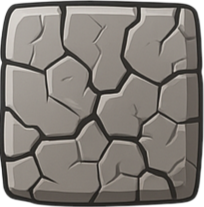
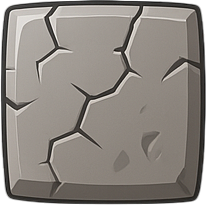
idkk

diff --git a/main.py b/main.py
@@ -46,9 +46,9 @@ play_rect = play_surface.get_rect(center=(WIDTH/2,HEIGHT/2))
 choose_theme_surface = pygame.image.load("./media/images/theme.png").convert_alpha()
 choose_theme_surface = pygame.transform.scale(choose_theme_surface, (WIDTH/8, HEIGHT/11))
 choose_theme_rect = choose_theme_surface.get_rect(center=(WIDTH/2, HEIGHT/1.65))
-mute_img = pygame.image.load("./media/images/sound_options/mute.png").convert_alpha()
+mute_img = pygame.image.load("./media/images/sound_options/unmute.png").convert_alpha()
 mute_img = pygame.transform.scale(mute_img, SOUND_SIZE)
-unmute_img = pygame.image.load("./media/images/sound_options/unmute.png").convert_alpha()
+unmute_img = pygame.image.load("./media/images/sound_options/mute.png").convert_alpha()
 unmute_img = pygame.transform.scale(unmute_img, SOUND_SIZE)
 sound_img = mute_img
 sound_rect = unmute_img.get_rect(center=(WIDTH*(1/25), HEIGHT/16))
@@ -86,17 +86,14 @@ for i in range(NUM_FRAMES):
     img = pygame.transform.scale(img, (BIRD_SIZE * 7, BIRD_SIZE * 7))
     EXPLOSION_FRAMES.append(img)
 BIRD_PACK = (BIRD_OG_IMAGES, OG_HELMET_IMAGE, EXPLOSION_FRAMES)
-BLOCK_IMAGES_1 = {}
-for block in BLOCK_OPTIONS:
-    image = pygame.image.load(f"./media/images/blocks/{block}_1.png").convert_alpha()
-    image = pygame.transform.scale(image, (BLOCK_SIZE, BLOCK_SIZE))
-    BLOCK_IMAGES_1[block] = image
-BLOCK_IMAGES_2 = {}
-for block in BLOCK_OPTIONS:
-    image = pygame.image.load(f"./media/images/blocks/{block}_2.png").convert_alpha()
-    image = pygame.transform.scale(image, (BLOCK_SIZE, BLOCK_SIZE))
-    BLOCK_IMAGES_2[block] = image
-BLOCK_PACK = (BLOCK_IMAGES_1, BLOCK_IMAGES_2)
+BLOCK_IMAGES = {}
+for i in range(1, 5):
+    BLOCK_IMAGES[i] = {}
+    for block in BLOCK_OPTIONS:
+        img = pygame.image.load(f"./media/images/blocks/{block}_{i}.png").convert_alpha()
+        img = pygame.transform.scale(img, (BLOCK_SIZE, BLOCK_SIZE))
+        BLOCK_IMAGES[i][block] = img
+BLOCK_PACK = (BLOCK_IMAGES[1], BLOCK_IMAGES[2], BLOCK_IMAGES[3], BLOCK_IMAGES[4])
 # Prediction image
 circle_image = pygame.image.load("./media/images/circle.png").convert_alpha()
 # Difficulty choosing

diff --git a/modules/variables.py b/modules/variables.py
@@ -3,25 +3,26 @@ import pygame # type: ignore
 BLOCK_HEALTH = {
     "wood": 100,
     "ice": 100,
-    "stone": 100
+    "stone": 100,
+    "iron" : 100
 }
 
 BIRD_DAMAGE = {
-    "red": {"wood": 60, "ice": 60, "stone": 60},
-    "chuck": {"wood": 70, "ice": 35, "stone": 35},
-    "blues": {"wood": 35, "ice": 70, "stone": 35},
-    "bomb": {"wood": 35, "ice": 35, "stone": 70}
-}  # To be tuned before submitting
+    "red": {"wood": 50, "ice": 50, "stone": 50, "iron": 0},
+    "chuck": {"wood": 60, "ice": 40, "stone": 40, "iron": 0},
+    "blues": {"wood": 40, "ice": 60, "stone": 40, "iron": 0},
+    "bomb": {"wood": 40, "ice": 40, "stone": 60, "iron": 0}
+}
 
 DIFFICULTY_SETTINGS = {
-    1: {"width": 2,  "height": 6,  "wind_max":  0},
-    2: {"width": 4,  "height": 6,  "wind_max":  3},
-    3: {"width": 6,  "height": 8,  "wind_max":  6},
-    4: {"width": 8,  "height":10,  "wind_max":  9},
+    1: {"width": 2,  "height": 5,  "wind_max":  0},
+    2: {"width": 3,  "height": 6,  "wind_max":  3},
+    3: {"width": 4,  "height": 7,  "wind_max":  6},
+    4: {"width": 4,  "height": 8,  "wind_max":  9},
 }
 
 BIRD_OPTIONS = ["red", "chuck", "blues", "bomb"]
-BLOCK_OPTIONS = ["wood", "ice", "stone"]
+BLOCK_OPTIONS = ["wood", "ice", "stone", "iron"]
 WIDTH, HEIGHT = 1600, 900
 GRAVITY = 1000
 FPS = 120
@@ -34,7 +35,7 @@ e=0.3
 MAX_COLLISIONS = 5
 fortress_width, fortress_height = 7,7
 BIRD_SIZE = round(35 * (WIDTH/1400))
-BLOCK_SIZE = round(30 * (WIDTH/1400))
+BLOCK_SIZE = round(40 * (WIDTH/1400))
 EXTRA_SMALL_FONT = round(25 * (WIDTH/1400))
 SMALL_FONT = round(30 * (WIDTH/1400))
 MED_FONT = round(40 * (WIDTH/1400))
@@ -74,3 +75,4 @@ TIME_LIMIT = 20
 NOISE_SEED = 1234
 BUTTON_W = round(216 * (WIDTH/1600))
 BUTTON_H = round(70 * (WIDTH/1600))
+IRON_COUNT = 2

diff --git a/modules/bird.py b/modules/bird.py
@@ -80,8 +80,8 @@ class Bird:
             bird_list.append(Bird(self.image_pack, self.ground, self.x, self.y, self.bird_type, self.side, self.vx, self.vy, self.size, True, True, False, True))
             temp_bird = bird_list[-1]
             temp_bird.explosion_pos = (temp_bird.x, temp_bird.y)
-            bird_list.append(Bird(self.image_pack, self.ground, self.x, self.y, self.bird_type, self.side, self.vx, self.vy+200, self.size, True, True, False, True))
-            bird_list.append(Bird(self.image_pack, self.ground, self.x, self.y, self.bird_type, self.side, self.vx, self.vy-200, self.size, True, True, False, True))
+            bird_list.append(Bird(self.image_pack, self.ground, self.x, self.y, self.bird_type, self.side, self.vx+50, self.vy+200, self.size, True, True, False, True))
+            bird_list.append(Bird(self.image_pack, self.ground, self.x, self.y, self.bird_type, self.side, self.vx-50, self.vy-200, self.size, True, True, False, True))
             for i in range(3):
                 bird_list[-(i+1)].wind = wind
         elif self.bird_type == "red":
@@ -101,7 +101,7 @@ class Bird:
             self.explosion_time = pygame.time.get_ticks()    ################################
             for block in fortress.list:
                 dist = np.linalg.norm(np.array(self.explosion_pos)-np.array(block.get_centre())+np.array((self.size, self.size)))
-                damage = BIRD_DAMAGE[self.bird_type][block.type]*(2/(1+(abs(round(dist/75))**2))) # To be tuned before submitting
+                damage = BIRD_DAMAGE[self.bird_type][block.type]*(2/(1+(abs(round(dist/75))**2)))
                 block.health -= damage
                 print(damage)
                 block.update_image(damage)

diff --git a/modules/block.py b/modules/block.py
@@ -14,7 +14,7 @@ class Block:
         self.image = image_pack[0][block_type]
         if (self.side=="right"):
             self.image = pygame.transform.flip(self.image, True, False)
-        self.future_use_image = image_pack[1][block_type]
+        self.future_use_image = (image_pack[0][block_type],image_pack[1][block_type],image_pack[2][block_type],image_pack[3][block_type])
         self.vx = 0
         self.vy = 0
         self.is_falling = False
@@ -44,8 +44,18 @@ class Block:
         return False, collision_face
 
     def update_image(self, damage):
-        if ((0<self.health<=50) and self.health+damage>50):
-            self.image = self.future_use_image
+        if ((0<self.health<=75) and self.health+damage>75):
+            self.image = self.future_use_image[1]
+            if (self.side == "right"):
+                self.image = pygame.transform.flip(self.image, True, False)
+            self.image = pygame.transform.scale(self.image, (self.size, self.size))
+        elif ((0<self.health<=50) and self.health+damage>50):
+            self.image = self.future_use_image[2]
+            if (self.side == "right"):
+                self.image = pygame.transform.flip(self.image, True, False)
+            self.image = pygame.transform.scale(self.image, (self.size, self.size))
+        elif ((0<self.health<=25) and self.health+damage>25):
+            self.image = self.future_use_image[3]
             if (self.side == "right"):
                 self.image = pygame.transform.flip(self.image, True, False)
             self.image = pygame.transform.scale(self.image, (self.size, self.size))

diff --git a/modules/fortress.py b/modules/fortress.py
@@ -12,7 +12,16 @@ class Fortress:
         else:
             self.theme = "not space"
         self.side = side
-        block_randoms = [BLOCK_OPTIONS[i%3] for i in range(width * height)]
+        total = width * height
+        iron_count = IRON_COUNT
+        remaining = total - iron_count
+        base, rem = divmod(remaining, 3) ################
+        counts = {"ice": base, "stone": base, "wood": base} ################
+        for typ in ("ice","stone","wood")[:rem]: ################
+            counts[typ] += 1 ################
+        block_randoms = ["iron"] * iron_count ################
+        for typ, cnt in counts.items():
+            block_randoms += [typ] * cnt  ################
         random.shuffle(block_randoms)
         if (side=="left"):
             self.list = [Block(image_pack, 50 + i * (BLOCK_SIZE), HEIGHT-ground-BLOCK_SIZE-(BLOCK_SIZE)*j, block_randoms[k],"left") for k,(i,j) in enumerate([(i, j) for i in range(width) for j in range(height)])]
@@ -21,7 +30,7 @@ class Fortress:
         self.width = width
         self.height = height
         self.cordinates = [(i, j) for i in range(width) for j in range(height)]
-        self.dictionary = dict(zip( self.cordinates, self.list))
+        self.dictionary = dict(zip(self.cordinates, self.list))
         self.ground = ground
 
     def draw(self, screen):
